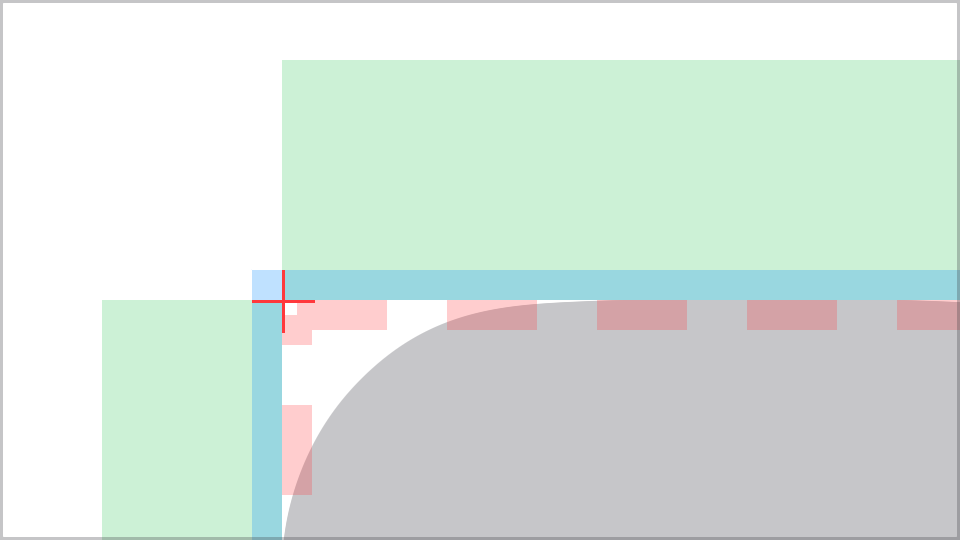
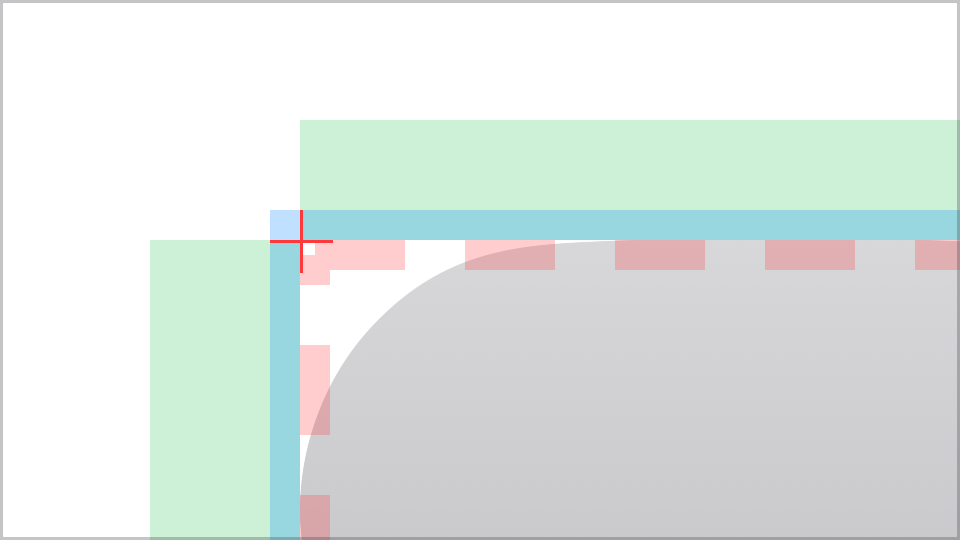
rework debug-overlay card

Changed region(s): [[0.0938, 0.0889, 1.0, 1.0]]

diff --git a/sources/illustrations/DebugOverlayModifier+Illustrations.swift b/sources/illustrations/DebugOverlayModifier+Illustrations.swift
@@ -19,18 +19,18 @@ extension DebugOverlayModifier.Illustrations {
 
     /// Card illustration for <doc:debug-overlay>.
     static var card: DocumentationIllustration {
-        DocumentationIllustration(sizing: .card.half) {
+        DocumentationIllustration(sizing: .card.half, alignment: .topLeading) {
             Capsule()
-            .fill(.gray.secondary)
+            .fill(.gray.gradient.secondary)
             .frame(width: 320, height: 180)
             .debugOverlay(.bordersWidth(10))
             .safeAreaInset(edge: .top, spacing: .zero) {
-                ClearRectangle().frame(squareOf: 80)
+                ClearRectangle().frame(squareOf: 40)
             }
             .safeAreaInset(edge: .leading, spacing: .zero) {
-                ClearRectangle().frame(squareOf: 60)
+                ClearRectangle().frame(squareOf: 50)
             }
-            .offset(x: 320/5, y: 180/3)
+            .offset(x: 50, y: 40)
         } // DocumentationIllustration
     }
 
